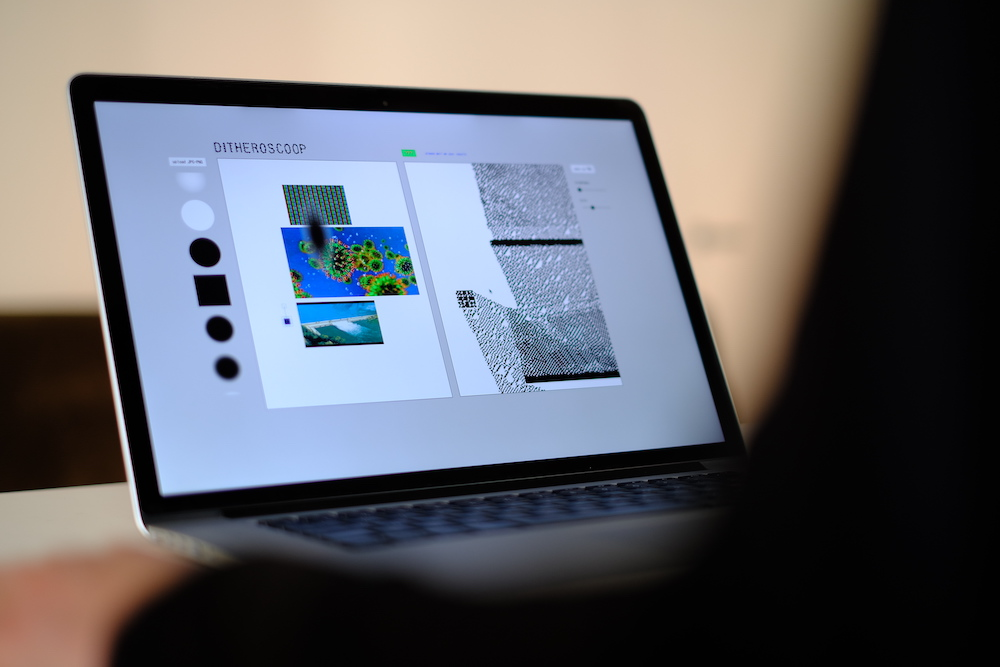
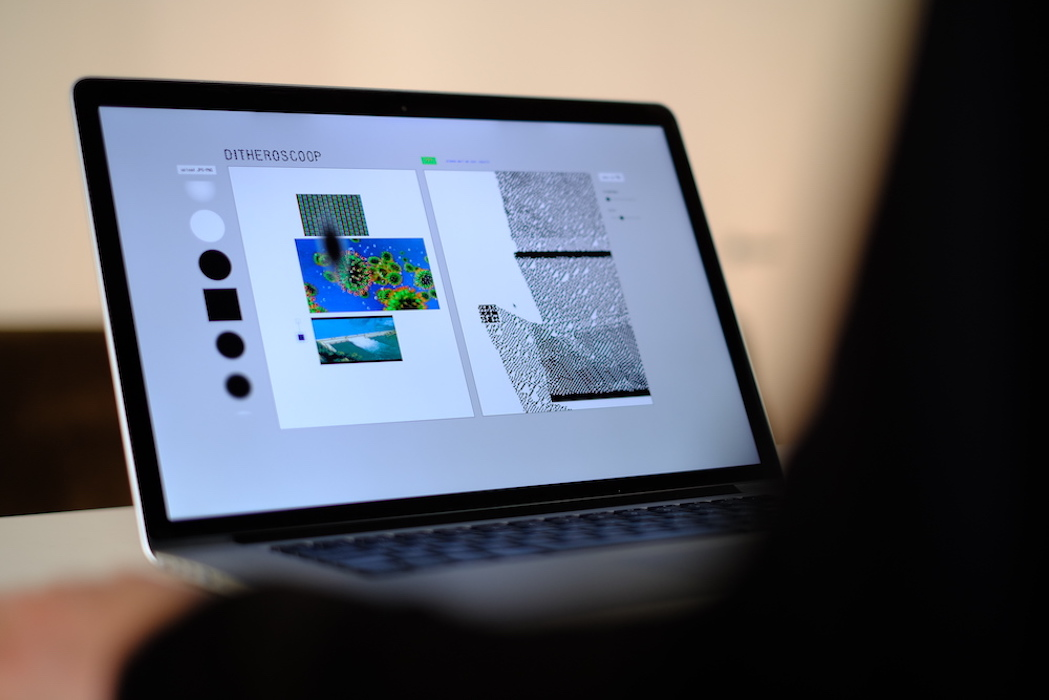
img's same height
to test the responsiveness of the carousel

diff --git a/css/main.css b/css/main.css
@@ -9,6 +9,10 @@ body {
   margin: 10px 0 0 10px;
 }
 
+img {
+  max-width: 100%;
+}
+
 header {
   margin: -10px 0 50px -10px;
 }
@@ -49,15 +53,13 @@ p {
 }
 
 .carousel-container {
-  width: 99%;
   overflow: hidden;
   position: relative;
+  max-height: 700px;
 }
 
 .carousel-slide {
   display: flex;
-  width: 100%;
-  height: 750px;
 }
 
 #prevBtn {
